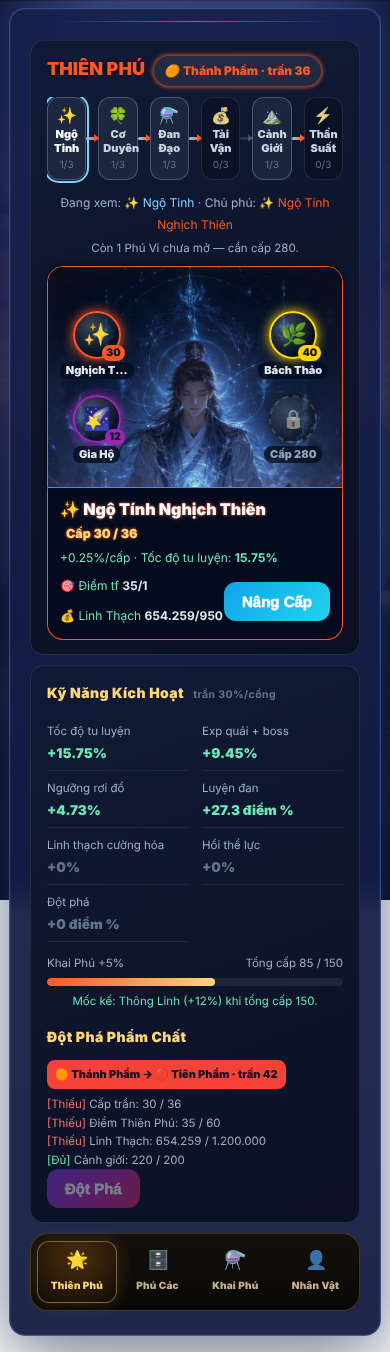
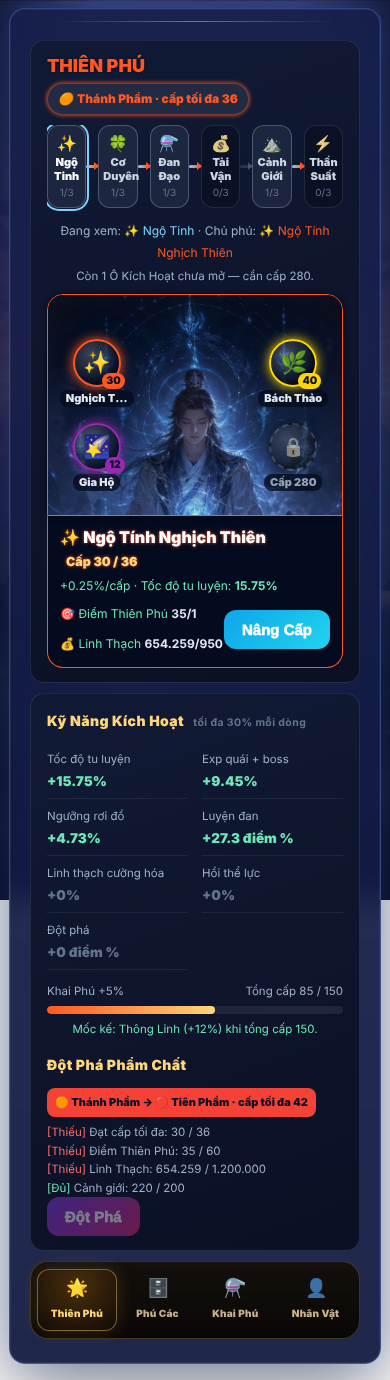
feat(tianfu): doi ten hien thi 'Phu Vi' -> 'O Kich Hoat', sua tieu de bi cat khi badge dai
Claude-Session: https://claude.ai/code/session_01XwZ3mSgsu7aCi15cqKJjHy

diff --git a/css/mystyle.css b/css/mystyle.css
@@ -7586,6 +7586,8 @@ a.hm-act-transform:link,a.hm-act-transform:visited,a.hm-act-transform:hover,a.hm
 .tp-forge-row .tp-forge-cost{justify-content:flex-start;margin:0;flex:1 1 auto;min-width:0}
 .tp-forge-row form{margin:0;flex:0 0 auto}
 .tp-h3 .tp-attr-cap{font-weight:700;margin-left:6px}
+.tp-hrow{flex-wrap:wrap;align-items:center;row-gap:6px}
+.tp-title{flex:0 0 auto;overflow:visible}
 .tp-cols .tp-col+.tp-col{margin-top:14px}
 .tp-attrs{display:grid;grid-template-columns:1fr 1fr;column-gap:14px}
 .tp-attrs .tp-attr{display:block;padding:6px 0;font-size:12px}

diff --git a/game/tianfu_collection.php b/game/tianfu_collection.php
@@ -131,7 +131,7 @@ $tpcZtCmd      = $encode->encode("cmd=zhuangtai&sid=$sid");
         <span>Đã có <b><?= $tpcHaveCount ?>/18</b> · Điểm Thiên Phú <b><?= intval($tpcW['tf']) ?></b> · Linh Thạch <b><?= number_format($tpcW['uyxb'], 0, ',', '.') ?></b></span>
     </div>
 <?php if ($tpcPick > 0): ?>
-    <div class="tp-note">Đang chọn thiên phú cho <b>Phú Vi <?= $tpcPick ?></b> — chạm một ô trong lưới bên dưới.</div>
+    <div class="tp-note">Đang chọn thiên phú cho <b>Ô Kích Hoạt <?= $tpcPick ?></b> — chạm một ô trong lưới bên dưới.</div>
 <?php endif; ?>
 
 <!-- ===== LUOI 18 O (3 cot mobile / 6 cot desktop) ===== -->
@@ -178,8 +178,8 @@ $tpcZtCmd      = $encode->encode("cmd=zhuangtai&sid=$sid");
             <div><i class="tp-emoji">📈</i> Cấp <b><?= $tpcLv ?></b>/<?= $tpcCapLv ?> · phí kế tiếp <b><?= intval($tpcLvCost["tf"]) ?></b> Điểm Thiên Phú + <b><?= number_format(intval($tpcLvCost["linh_thach"]), 0, ',', '.') ?></b> Linh Thạch</div>
             <div class="<?= $tpcSlot > 0 ? 'ok' : 'no' ?>"><i class="tp-emoji"><?= $tpcSlot > 0 ? '✅' : '⭕' ?></i> <?php
                 echo $tpcSlot > 0
-                    ? ('Đang phát huy — Phú Vi ' . $tpcSlot)
-                    : 'Chưa phát huy — phải đặt vào Phú Vi';
+                    ? ('Đang phát huy — Ô Kích Hoạt ' . $tpcSlot)
+                    : 'Chưa phát huy — phải đặt vào Ô Kích Hoạt';
             ?></div>
             <div>Cộng <?= htmlspecialchars($tpcGateName) ?> hiện hưởng: <b><?= $tpcGateNow ?><?= $tpcGateUnit === '%' ? '' : ' ' ?><?= htmlspecialchars($tpcGateUnit) ?></b> (xem trang Thiên Phú)</div>
 <?php else: ?>
@@ -224,22 +224,22 @@ $tpcZtCmd      = $encode->encode("cmd=zhuangtai&sid=$sid");
         ? \player\tianfu_slot_conflict($sid, $dblj, $tpcSel, $tpcSn, $tpcAct) : false;
 ?>
 <?php if (!$tpcSOpen): ?>
-            <div class="tp-reqs"><span class="no">[Khóa]</span> Phú Vi <?= $tpcSn ?> cần cấp <?= intval($tpcSd['ulv']) ?>.</div>
+            <div class="tp-reqs"><span class="no">[Khóa]</span> Ô Kích Hoạt <?= $tpcSn ?> cần cấp <?= intval($tpcSd['ulv']) ?>.</div>
 <?php elseif ($tpcSConf !== false): ?>
-            <div class="tp-reqs"><span class="no">[Trùng]</span> Phú Vi <?= $tpcSn ?>: trùng loại với <?= htmlspecialchars($tpcSConf) ?>.</div>
+            <div class="tp-reqs"><span class="no">[Trùng]</span> Ô Kích Hoạt <?= $tpcSn ?>: trùng loại với <?= htmlspecialchars($tpcSConf) ?>.</div>
 <?php elseif ($tpcSHolder === $tpcSel): ?>
             <form method="post" action="?cmd=<?= $tpcPostCmd ?>">
                 <input type="hidden" name="tp_action" value="slot">
                 <input type="hidden" name="tf_id" value="<?= $tpcSel ?>">
                 <input type="hidden" name="tf_slot" value="0">
-                <button type="submit" class="tpc-act">Gỡ khỏi Phú Vi <?= $tpcSn ?></button>
+                <button type="submit" class="tpc-act">Gỡ khỏi Ô Kích Hoạt <?= $tpcSn ?></button>
             </form>
 <?php else: ?>
             <form method="post" action="?cmd=<?= $tpcPostCmd ?>">
                 <input type="hidden" name="tp_action" value="slot">
                 <input type="hidden" name="tf_id" value="<?= $tpcSel ?>">
                 <input type="hidden" name="tf_slot" value="<?= $tpcSn ?>">
-                <button type="submit" class="tpc-act"><?= $tpcPick === $tpcSn ? '▶ ' : '' ?><?= $tpcSHolder > 0 ? 'Thay vào' : 'Đặt vào' ?> Phú Vi <?= $tpcSn ?></button>
+                <button type="submit" class="tpc-act"><?= $tpcPick === $tpcSn ? '▶ ' : '' ?><?= $tpcSHolder > 0 ? 'Thay vào' : 'Đặt vào' ?> Ô Kích Hoạt <?= $tpcSn ?></button>
             </form>
 <?php endif; ?>
 <?php endforeach; ?>

diff --git a/tongquan.php b/tongquan.php
@@ -492,10 +492,10 @@ if (is_array($tpAll)) {
 
     tq_sec('nuoi-duong', 'thien-phu', '☯', 'Thiên Phú (18 phú · 10 phẩm · 7 công)',
         count($rowsT5) + count($rowsQ5) + count($rowsG5) + count($rowsM5) + count($rowsS5),
-        'Lớp vận khí & tốc độ: khai Phú Đan nhận ngẫu nhiên 1 trong 18 thiên phú, xếp vào 4 Phú Vị. Thiên phú KHÔNG cộng Công/Thủ/Máu/Bạo/Hút — chỉ can thiệp tỉ lệ và giá.',
+        'Lớp vận khí & tốc độ: khai Phú Đan nhận ngẫu nhiên 1 trong 18 thiên phú, xếp vào 4 Ô Kích Hoạt. Thiên phú KHÔNG cộng Công/Thủ/Máu/Bạo/Hút — chỉ can thiệp tỉ lệ và giá.',
         array('UI: game/tianfu.php (cmd=tianfu) · game/tianfu_collection.php (cmd=tianfu_collection) · game/tianfu_open.php (cmd=tianfu_open)',
             'Số liệu: player_tianfu (sid, tianfu_id, quality, lv, slot) + player_tianfu_log',
-            'Bản sao trong game1: tianfu_id / tianfu_quality / tianfu_lv = Phú Vị 1 (chủ phú); tianfu_power = chiến lực tổng',
+            'Bản sao trong game1: tianfu_id / tianfu_quality / tianfu_lv = Ô Kích Hoạt 1 (chủ phú); tianfu_power = chiến lực tổng',
             'Trần mọi công: ' . tq_n($tpAll['cap_percent']) . '% — cộng dồn từng thiên phú xong mới kẹp một lần',
             'Công "Ngưỡng rơi đồ" NHÂN TIẾP sau Huyết Mạch: 1,15 x 1,30 = +49,5% danh nghĩa; ngưỡng 120 thật tế thành 179 (+49,17%) vì hai lần làm tròn',
             'Công "Đột phá" có trần mềm 99% — bản cũ KHÔNG có trần, đây là thay đổi hành vi',
@@ -505,8 +505,8 @@ if (is_array($tpAll)) {
             . ' Linh Thạch (cộng ' . tq_n($tpLv['linh_thach_per_lv']) . '/cấp). Luyện luôn thành công — chỉ phẩm chất mới cần đột phá.')
         . tq_searchable('tbl-tpq', array('Phẩm', 'Khóa', 'Trần cấp', 'Hệ số', 'Tỉ lệ khai', 'Đột phá lên phẩm kế', 'Cần cảnh giới'), $rowsQ5, '<b>10 phẩm chất:</b>')
         . tq_searchable('tbl-tpg', array('Khóa', 'Công', 'Đơn vị', 'Ý nghĩa'), $rowsG5, '<b>7 công:</b>')
-        . tq_searchable('tbl-tpm', array('Mốc', 'Tổng cấp 4 Phú Vị', 'Nhân chỉ số'), $rowsM5, '<b>Mốc tổng cấp:</b>')
-        . tq_searchable('tbl-tps', array('Phú Vị', 'Tên', 'Mở khi', 'Cảnh giới', 'Ghi chú'), $rowsS5, '<b>4 Phú Vị:</b>'));
+        . tq_searchable('tbl-tpm', array('Mốc', 'Tổng cấp 4 Ô Kích Hoạt', 'Nhân chỉ số'), $rowsM5, '<b>Mốc tổng cấp:</b>')
+        . tq_searchable('tbl-tps', array('Ô Kích Hoạt', 'Tên', 'Mở khi', 'Cảnh giới', 'Ghi chú'), $rowsS5, '<b>4 Ô Kích Hoạt:</b>'));
 } else {
     tq_sec('nuoi-duong', 'thien-phu', '☯', 'Thiên Phú (chưa cài đặt)', 0,
         'class/config/tianfu_config.json chưa tồn tại — Task 1 chưa chạy.',

diff --git a/class/function/tianfu.php b/class/function/tianfu.php
@@ -776,7 +776,7 @@ if (!function_exists(__NAMESPACE__ . '\\tianfu_slot_set')) {
         $bad  = array('ok' => false, 'slot' => $slot, 'moved' => array(), 'msg' => '',
                       'mirror' => array());
 
-        if ($slot < 0 || $slot > 4) { $bad['msg'] = 'Phú Vi không hợp lệ.'; return $bad; }
+        if ($slot < 0 || $slot > 4) { $bad['msg'] = 'Ô Kích Hoạt không hợp lệ.'; return $bad; }
         if ($id === 0 && $slot === 0) { $bad['msg'] = 'Không có thay đổi.'; return $bad; }
 
         $O   = tianfu_owned($sid, $dblj);
@@ -792,7 +792,7 @@ if (!function_exists(__NAMESPACE__ . '\\tianfu_slot_set')) {
                 if (!in_array($slot, tianfu_slot_open($W['ulv']), true)) {
                     $sd = array();
                     foreach (tianfu_slot_defs() as $s) $sd[intval($s['i'])] = intval($s['ulv']);
-                    $bad['msg'] = 'Phú Vi ' . $slot . ' chưa mở — cần cấp ' . $sd[$slot]
+                    $bad['msg'] = 'Ô Kích Hoạt ' . $slot . ' chưa mở — cần cấp ' . $sd[$slot]
                                 . ', đang cấp ' . $W['ulv'] . '.';
                     return $bad;
                 }
@@ -814,7 +814,7 @@ if (!function_exists(__NAMESPACE__ . '\\tianfu_slot_set')) {
             if ($target === 0) { $bad['msg'] = 'Thiên phú này chưa được kích hoạt.'; return $bad; }
             $plan[$target] = 0;
         } elseif ($id === 0) {                      // xoa o
-            if (!isset($plan[$slot])) { $bad['msg'] = 'Phú Vi này đang trống.'; return $bad; }
+            if (!isset($plan[$slot])) { $bad['msg'] = 'Ô Kích Hoạt này đang trống.'; return $bad; }
             $plan[$slot] = 0;
         } else {
             $prev = isset($plan[$slot]) ? intval($plan[$slot]) : 0;
@@ -840,7 +840,7 @@ if (!function_exists(__NAMESPACE__ . '\\tianfu_slot_set')) {
             $dblj->commit();
         } catch (Exception $e) {
             $dblj->rollBack();
-            $bad['msg'] = 'Thay đổi Phú Vi thất bại, thử lại sau.';
+            $bad['msg'] = 'Thay đổi Ô Kích Hoạt thất bại, thử lại sau.';
             return $bad;
         }
 

diff --git a/game/tianfu.php b/game/tianfu.php
@@ -132,7 +132,7 @@ $tpPostCmd = $encode->encode("cmd=tianfu&grp=$tpView&sid=$sid");
     <div class="tp-head">
         <div class="tp-hrow">
             <span class="tp-title">THIÊN PHÚ</span>
-            <span class="tp-badge" style="border-color:<?= $tpTierColor ?>66;color:<?= $tpTierColor ?>"><i class="tp-badge-ico"><?= $tpQIcon ?></i><?= htmlspecialchars($tpQName) ?> · cấp tối đa <?= $tpLvCap ?></span>
+            <span class="tp-badge" style="border-color:<?= $tpTierColor ?>66;color:<?= $tpTierColor ?>"><i class="tp-badge-ico"><?= $tpQIcon ?></i><?= htmlspecialchars($tpQName) ?><?= $tpMaster ? ' · cấp tối đa ' . $tpLvCap : '' ?></span>
         </div>
     </div>
 
@@ -161,7 +161,7 @@ foreach ($tpGl as $tpKi => $tpGrp):
 <?php if (!$tpMaster): ?>
     <div class="tp-note">Chưa có Chủ Phú — vào <b>Phú Các</b> để lập, hoặc <b>Khai Phú</b> để uống <?= htmlspecialchars($tpPill['name']) ?>.</div>
 <?php elseif (count($tpOpened) < 4): ?>
-    <div class="tp-note dim">Còn <?= 4 - count($tpOpened) ?> Phú Vi chưa mở — cần cấp <?= intval($tpSlots[count($tpOpened)]['ulv']) ?>.</div>
+    <div class="tp-note dim">Còn <?= 4 - count($tpOpened) ?> Ô Kích Hoạt chưa mở — cần cấp <?= intval($tpSlots[count($tpOpened)]['ulv']) ?>.</div>
 <?php endif; ?>
 
     <div class="tp-forge-wrap">
@@ -190,7 +190,7 @@ foreach ($tpSlots as $tpSd):
                 <span class="tp-orb-ball"><i class="tp-emoji"><?= $tpARow ? $tpARow['icon'] : ($tpSOpen ? '＋' : '🔒') ?></i><?php if ($tpARow): ?><em><?= intval($tpARow['lv']) ?></em><?php endif; ?></span>
                 <b class="tp-orb-lab"><?php
                     if ($tpARow) { echo htmlspecialchars($tpARow['short']); }
-                    elseif ($tpSOpen) { echo htmlspecialchars($tpSd['name']); }
+                    elseif ($tpSOpen) { echo $tpSi === 1 ? htmlspecialchars($tpSd['name']) : 'Ô ' . $tpSi . ' trống'; }
                     else { echo 'Cấp ' . intval($tpSd['ulv']); }
                 ?></b>
             </<?= $tpOtag ?>>

diff --git a/game/zhuangtai.php b/game/zhuangtai.php
@@ -424,7 +424,7 @@ $html = <<<HTML
         <div class="profile-stat"><span>💥 Bạo kích</span><strong>$player->ubj</strong></div>
         <div class="profile-stat"><span>🩸 Hút máu</span><strong>$player->uxx</strong></div>
         <div class="profile-stat"><span>$tpIcon Chủ phú</span><strong style="color:$tpColor">$tpMaster</strong></div>
-        <div class="profile-stat"><span>🎖 Phú Vị</span><strong>$tpSlots</strong></div>
+        <div class="profile-stat"><span>🎖 Ô Kích Hoạt</span><strong>$tpSlots</strong></div>
     </div>
 
 HTML;

diff --git a/game.php b/game.php
@@ -503,7 +503,7 @@ if (!isset($sid) || $sid==''){
     <meta http-equiv="Expires" content="0">
     <title>Tu Chân Giới</title>
     <link rel="stylesheet" href="css/gamecss.css?v=2026063001">
-    <link rel="stylesheet" href="css/mystyle.css?v=2026102701">
+    <link rel="stylesheet" href="css/mystyle.css?v=2026102702">
     <link rel="stylesheet" href="css/game-alert.css?v=2026072401">
     <link rel="stylesheet" href="css/itemtip.css?v=2026100401">
     <script src="js/game-alert.js?v=2026072401"></script>

diff --git a/docs/UI_THIENPHU.md b/docs/UI_THIENPHU.md
@@ -138,6 +138,7 @@ Bốn tab giống hệt khuôn Linh Căn / Huyết Mạch (`game/tianfu.php:290-
 - Chip chủ phú góc trái ảnh (`.tp-stage-chip`) **đã bỏ** vì trùng ô Phú Vi 1.
 - Thanh luyện chủ phú: tên + cấp + %/cấp một dòng; chi phí + nút Nâng Cấp một dòng.
 - 7 cổng: lưới 2 cột (tên trên, giá trị dưới); `trần 30%` ghi 1 lần ở tiêu đề.
+- **Đổi tên hiển thị "Phú Vi" → "Ô Kích Hoạt"** (ô 1 vẫn tên "Chủ Phú"); "tf" → "Điểm Thiên Phú"; "trần Lv" → "cấp tối đa". Tên biến/hàm/cột (`slot`, `tf`) giữ nguyên.
 - CSS thêm cuối khối `.tp-*` (`css/mystyle.css`, mục "2026-10-27"); `game.php` bump `mystyle.css?v=2026102701`.
 - Ảnh: `docs/img/thienphu/tianfu-v2-390.png`, `tianfu-v2-840.png`, `tianfu-v2-empty-390.png`
   (render bằng harness SQLite giả lập, **chưa** chụp trên DB thật).
